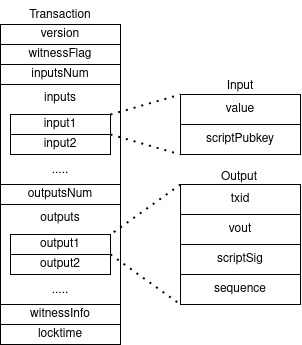
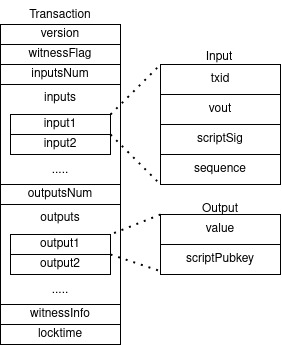
update tx format and typo

diff --git a/main.md b/main.md
@@ -34,13 +34,12 @@ This puzzle is specified under the hood using a "programing language" dedicated 
 You can find further information about Bitcoin script [here](https://en.bitcoin.it/wiki/Script).
 
 Great, now let's move to the inputs.
-An input contains the following five fields:
+An input contains the following four fields:
 
 1. `txid`, the hash of the transaction which contains the output were are spending in this input.
 1. `vout`, the transaction with hash `txid` may contain multiple outputs, this field specifies which of the outputs of that transaction are we spending in this input.
 1. `scriptSig`, the solution to the puzzle of the output being spent, which typically includes a digital signature.
 1. `sequence`, used for RBF signalling, irrelevant for this article.
-1. `witness`, another more efficient way to solve the puzzle which we'll not get into in this article.
 
 With all given information, the following is a schematic format of the transaction:
 
